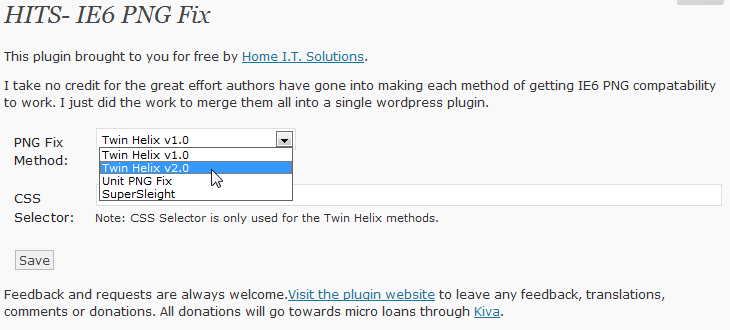
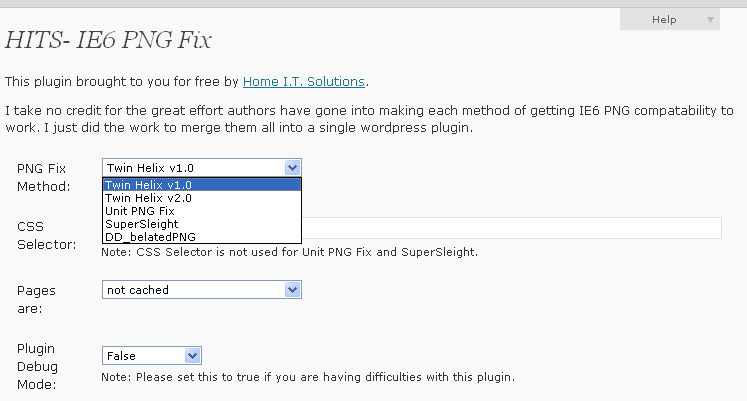
Added support for cached pages
git-svn-id: https://plugins.svn.wordpress.org/hits-ie6-pngfix/trunk@251414 b8457f37-d9ea-0310-8a92-e5e31aec5664

diff --git a/hits-pngfix.php b/hits-pngfix.php
@@ -1,7 +1,7 @@
 <?php
 /*
 	Plugin Name: HITS- IE6 PNGFix
-	Version: 3.0.2
+	Version: 3.1.0
 	Author: Adam Erstelle
 	Author URI: http://www.homeitsolutions.ca
 	Plugin URI: http://www.homeitsolutions.ca/websites/wordpress-plugins/ie6-png-fix
@@ -48,7 +48,7 @@ if (!class_exists('hits_ie6_pngfix')) {
         */
         var $optionsName = 'hits_ie6_pngfix_options';
         var $wp_version;
-		var $version = '3.0.2';
+		var $version = '3.1.0';
         
         /**
         * @var string $localizationDomain Domain used for localization
@@ -140,61 +140,96 @@ if (!class_exists('hits_ie6_pngfix')) {
         function wp_head()
 		{
 			$fixMethod = $this->options['hits_ie6_pngfix_method'];
+			$pagesAreCached = $this->options['hits_ie6_pngfix_pagesAreCached'];
+			
 			global $wp_version;
 			echo "\n";
 			echo "\n<!-- Begin - HITS-IE6 PNGFix -->";
 			if($this->options['hits_ie6_debug']=='true')
 			{
-				echo "\n<!-- DEBUG: Plugin Version=$this->version\n     DEBUG: Fix Method=$fixMethod -->";
+				echo "\n<!-- DEBUG: Plugin Version=$this->version\n     DEBUG: Fix Method=$fixMethod\n     DEBUG: PagesAreCached=$pagesAreCached -->";
 			}
-			if($this->isIE6())
+			if($pagesAreCached=='false')
 			{
-				echo "\n<!-- IE6 has been detected as the users browser version -->";
-				if (strcmp($fixMethod,'THM1')==0)
+				if($this->isIE6())
 				{
-					echo "\n<style type='text/css'>".$this->options['hits_ie6_pngfix_THM_CSSSelector']." { behavior: url(". $this->thispluginurl."THM1/iepngfix.php) }</style>";
+					echo "\n<!-- IE6 has been detected as the users browser version by the server -->";
+					$this->write_ie6_fix_nodes($fixMethod);
 				}
-				else if (strcmp($fixMethod,'THM2')==0)
-				{
-					echo "\n<style type='text/css'>".$this->options['hits_ie6_pngfix_THM_CSSSelector']." { behavior: url(". $this->thispluginurl."THM2/iepngfix.php) }</style>";
-					echo "\n<script type='text/javascript' src='". $this->thispluginurl."THM2/iepngfix_tilebg.js'></script>";
-				}
-				else if (strcmp($fixMethod,'UPNGFIX')==0)
-				{
-					echo "\n<script type='text/javascript' src='". $this->thispluginurl."UPNGFIX/unitpngfix.js'></script>";
-					echo "\n<script type='text/javascript'>clear = '". $this->thispluginurl."UPNGFIX/clear.gif';</script>";
-				}
-				else if (strcmp($fixMethod,'SUPERSLEIGHT')==0)
-				{
-					echo "\n<script type='text/javascript' src='". $this->thispluginurl."supersleight/supersleight-min.js'></script>";
-				}
-				else if (strcmp($fixMethod,'DD_BELATED')==0)
-				{
-					echo "\n<script type='text/javascript' src='". $this->thispluginurl."DD_belatedPNG/DD_belatedPNG_0.0.8a-min.js'></script>";
-					echo "\n<script type='text/javascript'>DD_belatedPNG.fix('".$this->options['hits_ie6_pngfix_THM_CSSSelector']."');</script>";
-				}
+				else
+					echo "\n<!-- IE6 has not been detected as the users browser version by the server -->";
 			}
 			else
-				echo "\n<!-- IE6 is not in use by the users browser -->";
+			{
+				echo "\n<!-- The browser itself will determine if IE6 code will be used -->";
+				echo "\n<!--[if lte IE 6]>";
+				$this->write_ie6_fix_nodes($fixMethod);
+				echo "\n<![endif] -->";
+			}
 			
 			echo "\n<!--  End  - HITS-IE6 PNGFix -->\n";
 			echo "\n";
 		}
+		
+		function write_ie6_fix_nodes($fixMethod)
+		{
+			if (strcmp($fixMethod,'THM1')==0)
+			{
+				echo "\n<style type='text/css'>".$this->options['hits_ie6_pngfix_THM_CSSSelector']." { behavior: url(". $this->thispluginurl."THM1/iepngfix.php) }</style>";
+			}
+			else if (strcmp($fixMethod,'THM2')==0)
+			{
+				echo "\n<style type='text/css'>".$this->options['hits_ie6_pngfix_THM_CSSSelector']." { behavior: url(". $this->thispluginurl."THM2/iepngfix.php) }</style>";
+				echo "\n<script type='text/javascript' src='". $this->thispluginurl."THM2/iepngfix_tilebg.js'></script>";
+			}
+			else if (strcmp($fixMethod,'UPNGFIX')==0)
+			{
+				echo "\n<script type='text/javascript' src='". $this->thispluginurl."UPNGFIX/unitpngfix.js'></script>";
+				echo "\n<script type='text/javascript'>clear = '". $this->thispluginurl."UPNGFIX/clear.gif';</script>";
+			}
+			else if (strcmp($fixMethod,'SUPERSLEIGHT')==0)
+			{
+				echo "\n<script type='text/javascript' src='". $this->thispluginurl."supersleight/supersleight-min.js'></script>";
+			}
+			else if (strcmp($fixMethod,'DD_BELATED')==0)
+			{
+				echo "\n<script type='text/javascript' src='". $this->thispluginurl."DD_belatedPNG/DD_belatedPNG_0.0.8a-min.js'></script>";
+				echo "\n<script type='text/javascript'>DD_belatedPNG.fix('".$this->options['hits_ie6_pngfix_THM_CSSSelector']."');</script>";
+			}
+		}
         
 		// IE6 Check
-		function isIE6() 
+		function isIE6()
 		{
-			$userAgent = strtolower($_SERVER['HTTP_USER_AGENT']);
-			if($this->options['hits_ie6_debug']=="true")
+			$browser = 'mozilla';
+			$majorVersion = 5;
+		
+			if(get_cfg_var('browscap')) 
+			{
+				$browserTab = get_browser();
+				$browser = strtolower($browserTab->browser);
+				$majorVersion = intval($browserTab->majorver);
+			}
+			else 
+			{
+				$userAgent = strtolower($_SERVER['HTTP_USER_AGENT']);
+				if (preg_match('|msie ([0-9]).[0-9]{1,2}|',$userAgent,$matched)) 
+				{
+					$browser = 'ie';
+					$majorVersion = intval($matched[1]);
+				}
+			}
+		
+			if($this->options['hits_ie6_debug']=="true") {
 				echo "\n<!-- DEBUG: HTTP_USER_AGENT='$userAgent' -->";
-			if(preg_match("/\bmsie [1-6]/i",$userAgent) && !preg_match("/\bopera/i",$userAgent))  
-			{
-				// if IE<=6
+				echo "\n<!-- DEBUG: DETECT BROWSER='$browser' -->";
+				echo "\n<!-- DEBUG: DETECT M VERSION='$majorVersion' -->";
+			}
+		
+			if($browser == 'ie' && $majorVersion <= 6) { // if IE<=6
 				return true;
-			} 
-			else
-			{
-				//if IE>6
+			}
+			else { //if IE>6
 				return false;
 			}
 		}
@@ -211,7 +246,8 @@ if (!class_exists('hits_ie6_pngfix')) {
 									'hits_ie6_pngfix_THM_CSSSelector'=>'img, div', //Added V2.1
 									'hits_ie6_pngfix_THM_image_path'=>'Initiated',//Added V2.2
 									'hits_ie6_pngfix_version'=>$this->version, //Added V2.3
-									'hits_ie6_debug'=>"false" //Added V3.0
+									'hits_ie6_debug'=>"false", //Added V3.0
+									'hits_ie6_pngfix_pagesAreCached'=>'false' //Added V3.1
 									);
                 update_option($this->optionsName, $theOptions);
             }
@@ -221,7 +257,6 @@ if (!class_exists('hits_ie6_pngfix')) {
 			$missingOptions=false;
 			if(!$this->options['hits_ie6_pngfix_version'] || (strcmp($this->options['hits_ie6_pngfix_version'],$this->version)!=0))
 			{
-			echo "\n<!--  Missing Options -->\n";
 				$missingOptions=true;
 				//an upgrade, run upgrade specific tasks.
 				
@@ -239,7 +274,8 @@ if (!class_exists('hits_ie6_pngfix')) {
 						$this->options['hits_ie6_pngfix_THM_image_path'] = $this->thispluginurl."THM1/blank.gif";
 					else if(strcmp($this->options['hits_ie6_pngfix_method'],'THM2')==0)
 						$this->options['hits_ie6_pngfix_THM_image_path'] = $this->thispluginurl."THM2/blank.gif";
-					$this->options['hits_ie6_pngfix_THM_image_path']='InitiatedV2.9';
+					else
+						$this->options['hits_ie6_pngfix_THM_image_path']='InitiatedV2.9';
 					
 					$this->persist_optionsFile();
 				}
@@ -253,6 +289,12 @@ if (!class_exists('hits_ie6_pngfix')) {
 				if(!$this->options['hits_ie6_debug'])
 				{
 					$this->options['hits_ie6_debug']="false";
+				}
+				
+				//added in 3.1
+				if(!$this->options['hits_ie6_pngfix_pagesAreCached'])
+				{
+					$this->options['hits_ie6_pngfix_pagesAreCached']='false';	
 				}
 			}
 			
@@ -351,6 +393,7 @@ if (!class_exists('hits_ie6_pngfix')) {
                 $this->options['hits_ie6_pngfix_method'] = $_POST['hits_ie6_pngfix_method'];   
 				$this->options['hits_ie6_pngfix_THM_CSSSelector'] = $_POST['hits_ie6_pngfix_THM_CSSSelector'];
 				$this->options['hits_ie6_debug']= $_POST['hits_ie6_debug'];
+				$this->options['hits_ie6_pngfix_pagesAreCached'] = $_POST['hits_ie6_pngfix_pagesAreCached'];
                 $this->saveAdminOptions();
                 
                 echo '<div class="updated"><p>'. __('Success! Your changes were sucessfully saved!', $this->localizationDomain) .'</p></div>';
@@ -380,6 +423,15 @@ if (!class_exists('hits_ie6_pngfix')) {
                         	<th width="33%" scope="row"><?php _e('CSS Selector:', $this->localizationDomain); ?></th>
                             <td><input type="text" name="hits_ie6_pngfix_THM_CSSSelector" value="<?php echo $this->options['hits_ie6_pngfix_THM_CSSSelector'] ?>" size="100" /><br /><?php _e('Note: CSS Selector is not used for Unit PNG Fix and SuperSleight.', $this->localizationDomain);?></td>
 						</tr>
+                        <tr valign="top"> 
+                            <th width="33%" scope="row"><?php _e('Pages are:', $this->localizationDomain); ?></th> 
+                            <td>
+                            <select name="hits_ie6_pngfix_pagesAreCached" id="hits_ie6_pngfix_pagesAreCached" style="width:200px;">
+								<option value="false"<?php if (strcmp($this->options['hits_ie6_pngfix_pagesAreCached'],'false')==0) { echo ' selected="selected"';} ?>><?php _e('not cached', $this->localizationDomain);?></option>
+								<option value="true"<?php if (strcmp($this->options['hits_ie6_pngfix_pagesAreCached'],'true')==0) { echo ' selected="selected"';} ?>><?php _e('cached', $this->localizationDomain);?></option>
+							</select>
+                        </td> 
+                        </tr>
                         <tr>
                         	<th width="33%" scope="row"><?php _e('Plugin Debug Mode:', $this->localizationDomain); ?></th>
                             <td>
